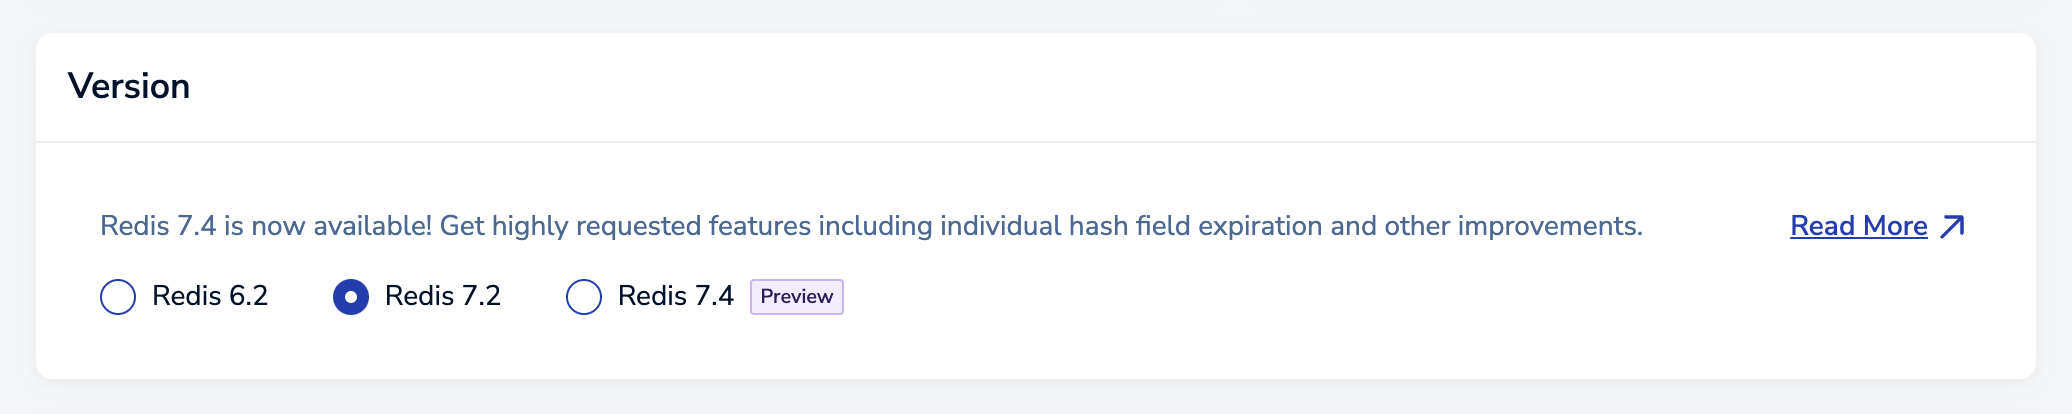
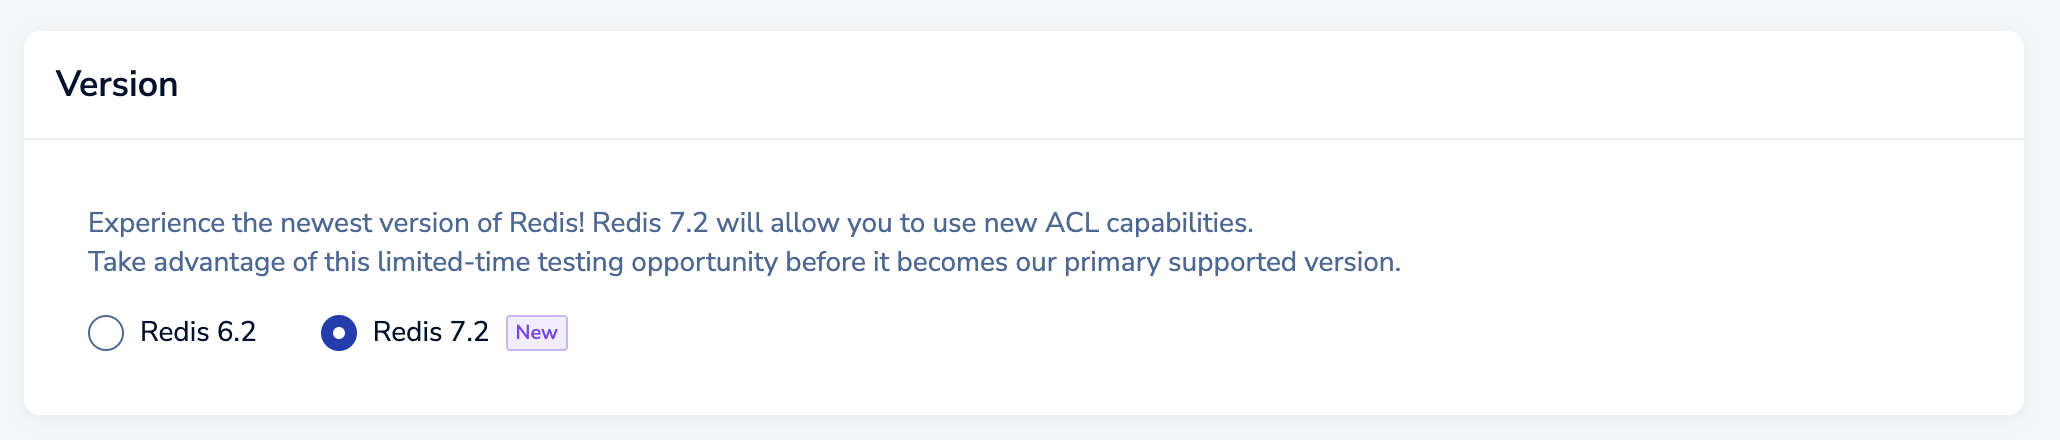
Revert "Merge pull request #674 from redis/DOC-4282"
This reverts commit d66bc651890b2932fd6581f52c21a19a5f100195, reversing
changes made to c43dcbf421aa926e0b6e161f1a4def62b600f6f8.

diff --git a/content/operate/rc/databases/create-database/create-pro-database-new.md b/content/operate/rc/databases/create-database/create-pro-database-new.md
@@ -105,11 +105,9 @@ The following settings are defined in the **General settings** of the **Setup** 
 
 #### Version {#version}
 
-{{<image filename="images/rc/subscription-new-flexible-version-section.png" width="75%" alt="Version selection between Redis 6.2, 7.2, and 7.4." >}}
+{{<image filename="images/rc/subscription-new-flexible-version-section.png" width="75%" alt="Version selection between Redis 6.2 and 7.2" >}}
 
-The **Version** section lets you choose the Redis version of your databases. Choose **Redis 7.2** if you want to use the latest stable version of Redis, or select **Redis 7.4** for the Redis 7.4 Preview. 
-
-Redis 7.4 offers hash field expiration and other feature set improvements. For more information on the changes in Redis 7.4, see the [Redis 7.4 release notes](https://redis.io/blog/announcing-redis-community-edition-and-redis-stack-74).
+The **Version** section lets you choose the Redis version of your databases. Choose **Redis 7.2** if you want to use the latest advanced features of Redis.
 
 #### Advanced options {#advanced-options}
 

diff --git a/content/integrate/amazon-bedrock/set-up-redis.md b/content/integrate/amazon-bedrock/set-up-redis.md
@@ -75,9 +75,9 @@ To set up a Redis Cloud instance for Bedrock, you need to:
 
     {{<image filename="images/rc/subscription-new-flexible-setup-general.png" width="75%" alt="The General settings of the Setup tab." >}}
 
-1. In the **Version** section, select **Redis 7.2** or **Redis 7.4**.
+1. In the **Version** section, select **Redis 7.2**.
 
-    {{<image filename="images/rc/subscription-new-flexible-version-section.png"  alt="Version selection between Redis 6.2, 7.2, and 7.4" >}}
+    {{<image filename="images/rc/subscription-new-flexible-version-section.png"  alt="Version selection between Redis 6.2 and 7.2" >}}
 
 1. In the **Advanced options** section, select Multi-AZ to ensure [high-availability]({{< relref "/operate/rc/databases/configuration/high-availability" >}}). 
 
